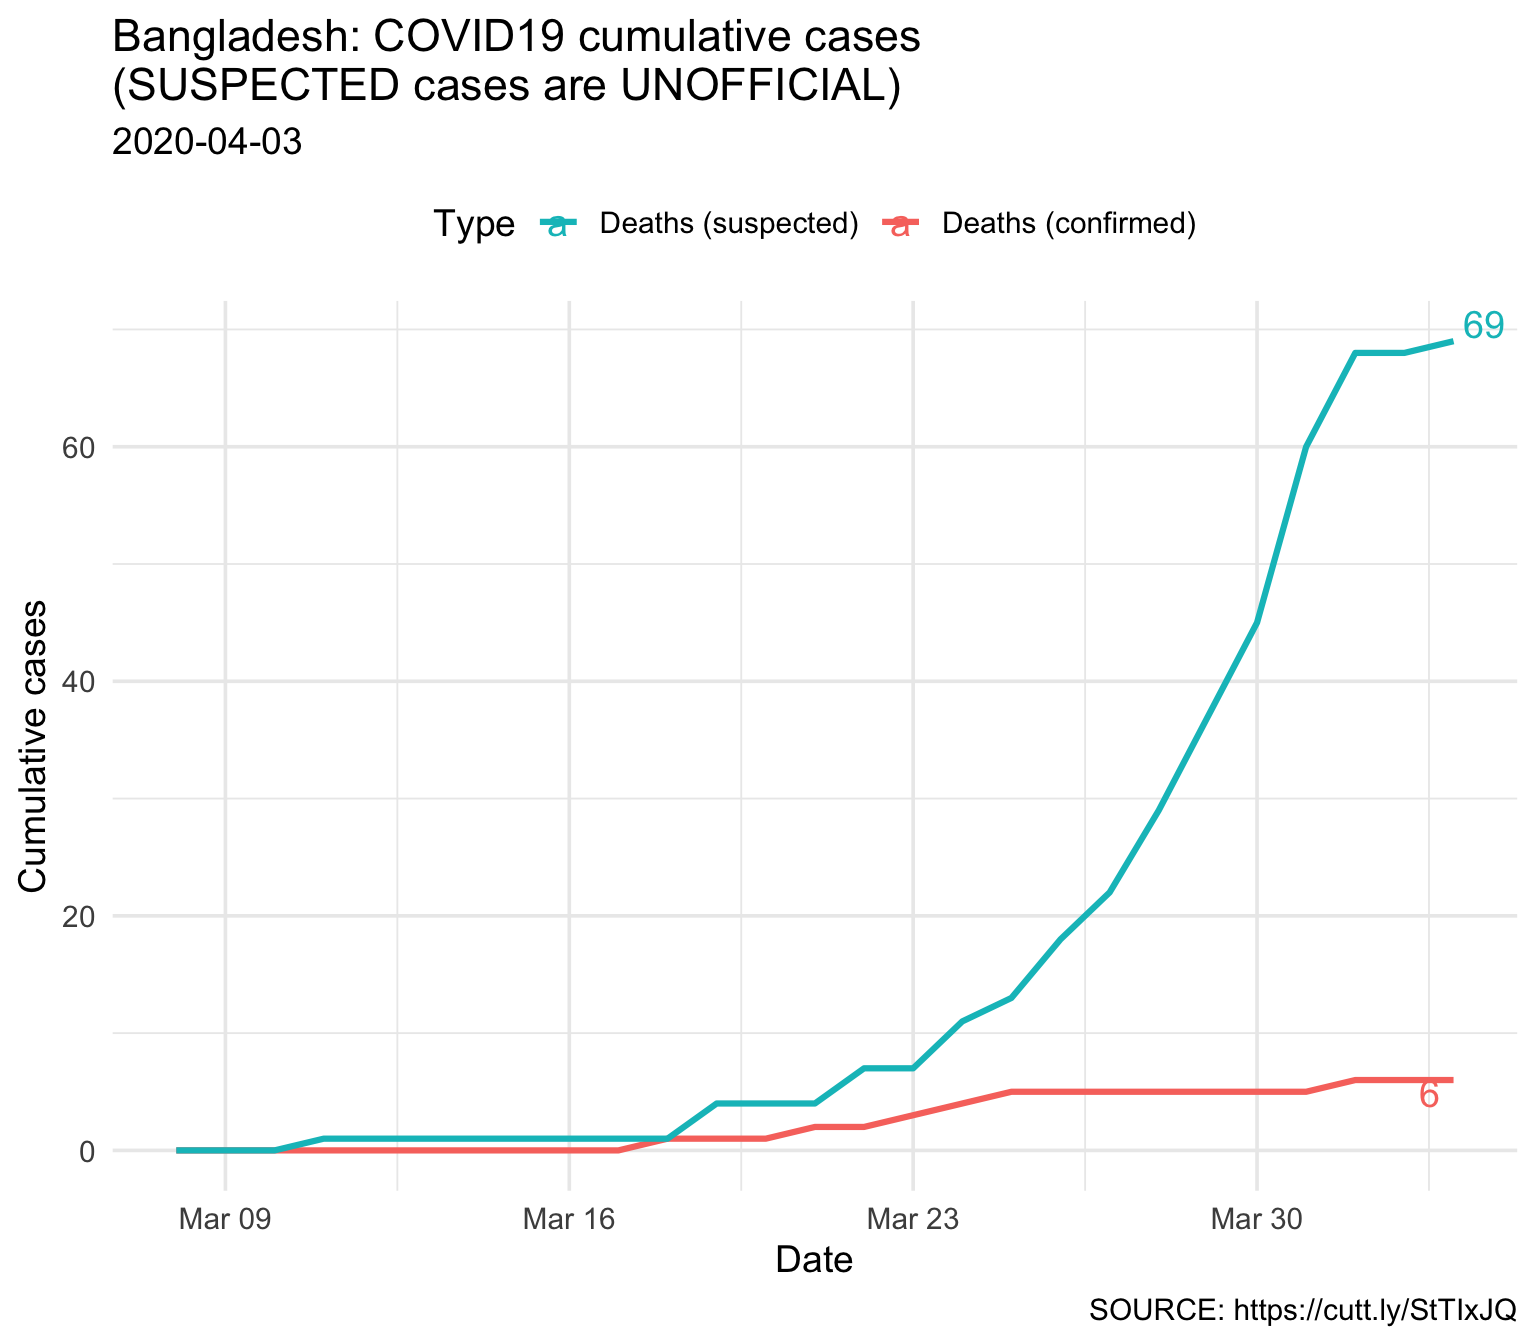
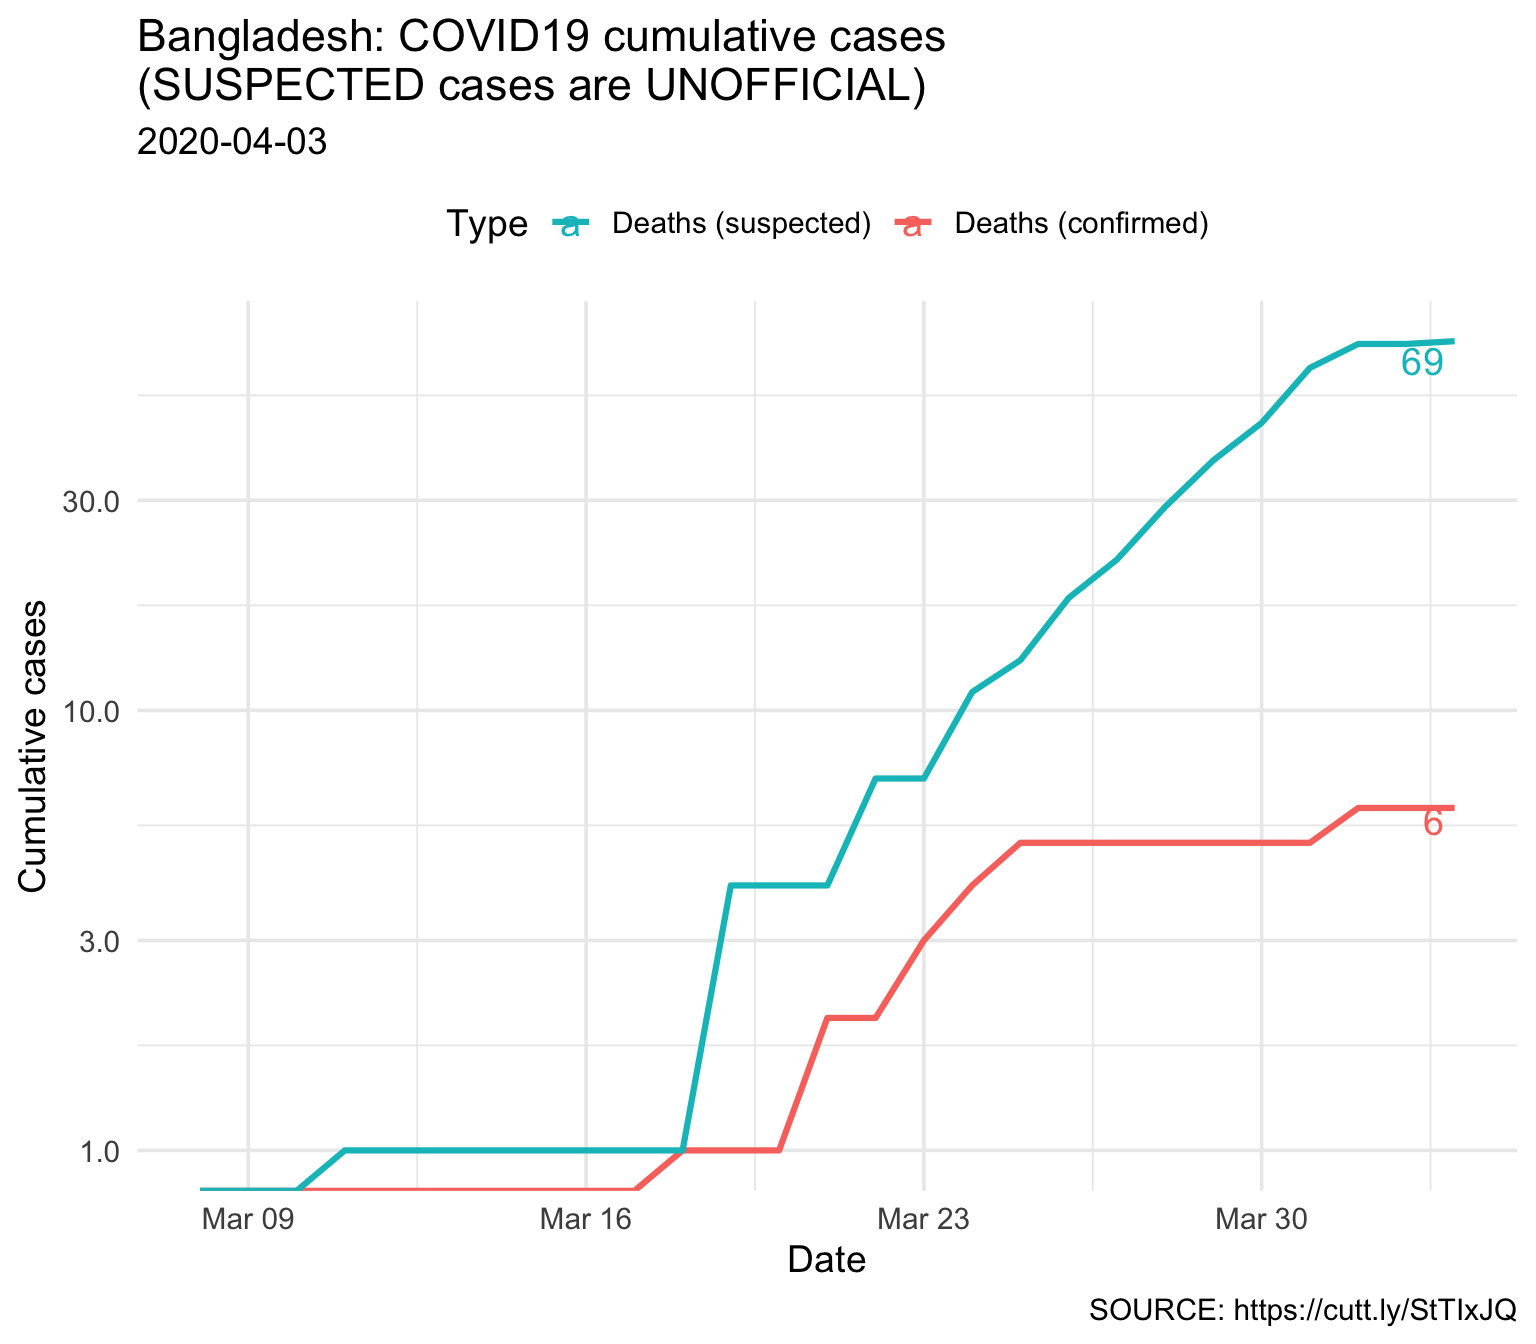
trans to log10 scale

diff --git a/_book/bangladesh.html b/_book/bangladesh.html
@@ -24,7 +24,7 @@
 <meta name="author" content="Enayetur Raheem, Ph.D." />
 
 
-<meta name="date" content="2020-04-03" />
+<meta name="date" content="2020-04-04" />
 
   <meta name="viewport" content="width=device-width, initial-scale=1" />
   <meta name="apple-mobile-web-app-capable" content="yes" />
@@ -107,7 +107,10 @@
 <li class="chapter" data-level="3" data-path="bangladesh.html"><a href="bangladesh.html"><i class="fa fa-check"></i><b>3</b> Bangladesh</a><ul>
 <li class="chapter" data-level="3.1" data-path="bangladesh.html"><a href="bangladesh.html#bangladesh-official-data-tbd"><i class="fa fa-check"></i><b>3.1</b> Bangladesh official data (TBD)</a></li>
 <li class="chapter" data-level="3.2" data-path="bangladesh.html"><a href="bangladesh.html#report-based-on-publicly-available-data"><i class="fa fa-check"></i><b>3.2</b> Report based on publicly available data</a></li>
-<li class="chapter" data-level="3.3" data-path="bangladesh.html"><a href="bangladesh.html#bangladesh-in-south-asia"><i class="fa fa-check"></i><b>3.3</b> Bangladesh in South Asia</a></li>
+<li class="chapter" data-level="3.3" data-path="bangladesh.html"><a href="bangladesh.html#bangladesh-in-south-asia"><i class="fa fa-check"></i><b>3.3</b> Bangladesh in South Asia</a><ul>
+<li class="chapter" data-level="3.3.1" data-path="bangladesh.html"><a href="bangladesh.html#infection"><i class="fa fa-check"></i><b>3.3.1</b> Infection</a></li>
+<li class="chapter" data-level="3.3.2" data-path="bangladesh.html"><a href="bangladesh.html#deaths-2"><i class="fa fa-check"></i><b>3.3.2</b> Deaths</a></li>
+</ul></li>
 </ul></li>
 <li class="chapter" data-level="4" data-path="scipubs.html"><a href="scipubs.html"><i class="fa fa-check"></i><b>4</b> Publications</a></li>
 <li class="chapter" data-level="5" data-path="resources.html"><a href="resources.html"><i class="fa fa-check"></i><b>5</b> Resources</a></li>
@@ -145,7 +148,7 @@
 <p><img src="covid19_files/figure-html/covid19-bangladesh-1.png" width="768" /></p>
 <table>
 <caption>
-<span id="tab:unnamed-chunk-16">Table 3.1: </span>Bangladesh summary as of 2020-04-03
+<span id="tab:unnamed-chunk-2">Table 3.1: </span>Bangladesh summary as of 2020-04-03
 </caption>
 <thead>
 <tr>
@@ -177,10 +180,16 @@ Total Tests
 </div>
 <div id="bangladesh-in-south-asia" class="section level2">
 <h2><span class="header-section-number">3.3</span> Bangladesh in South Asia</h2>
-<p><img src="covid19_files/figure-html/covid19-death-south-asia-1.png" width="672" /></p>
+<div id="infection" class="section level3">
+<h3><span class="header-section-number">3.3.1</span> Infection</h3>
+<p><img src="covid19_files/figure-html/covid19-cases-south-asia-1.png" width="768" /></p>
+</div>
+<div id="deaths-2" class="section level3">
+<h3><span class="header-section-number">3.3.2</span> Deaths</h3>
+<p><img src="covid19_files/figure-html/covid19-death-south-asia-1.png" width="768" /></p>
 <table class="table" style="margin-left: auto; margin-right: auto;">
 <caption>
-<span id="tab:unnamed-chunk-18">Table 3.2: </span>Total number of deaths as of 2020-04-03
+<span id="tab:unnamed-chunk-4">Table 3.2: </span>Total number of deaths as of 2020-04-03
 </caption>
 <thead>
 <tr>
@@ -254,6 +263,7 @@ Sri Lanka
 
 </div>
 </div>
+</div>
             </section>
 
           </div>
@@ -310,20 +320,6 @@ gitbook.start({
 });
 </script>
 
-<!-- dynamically load mathjax for compatibility with self-contained -->
-<script>
-  (function () {
-    var script = document.createElement("script");
-    script.type = "text/javascript";
-    var src = "";
-    if (src === "" || src === "true") src = "https://mathjax.rstudio.com/latest/MathJax.js?config=TeX-MML-AM_CHTML";
-    if (location.protocol !== "file:")
-      if (/^https?:/.test(src))
-        src = src.replace(/^https?:/, '');
-    script.src = src;
-    document.getElementsByTagName("head")[0].appendChild(script);
-  })();
-</script>
 </body>
 
 </html>
